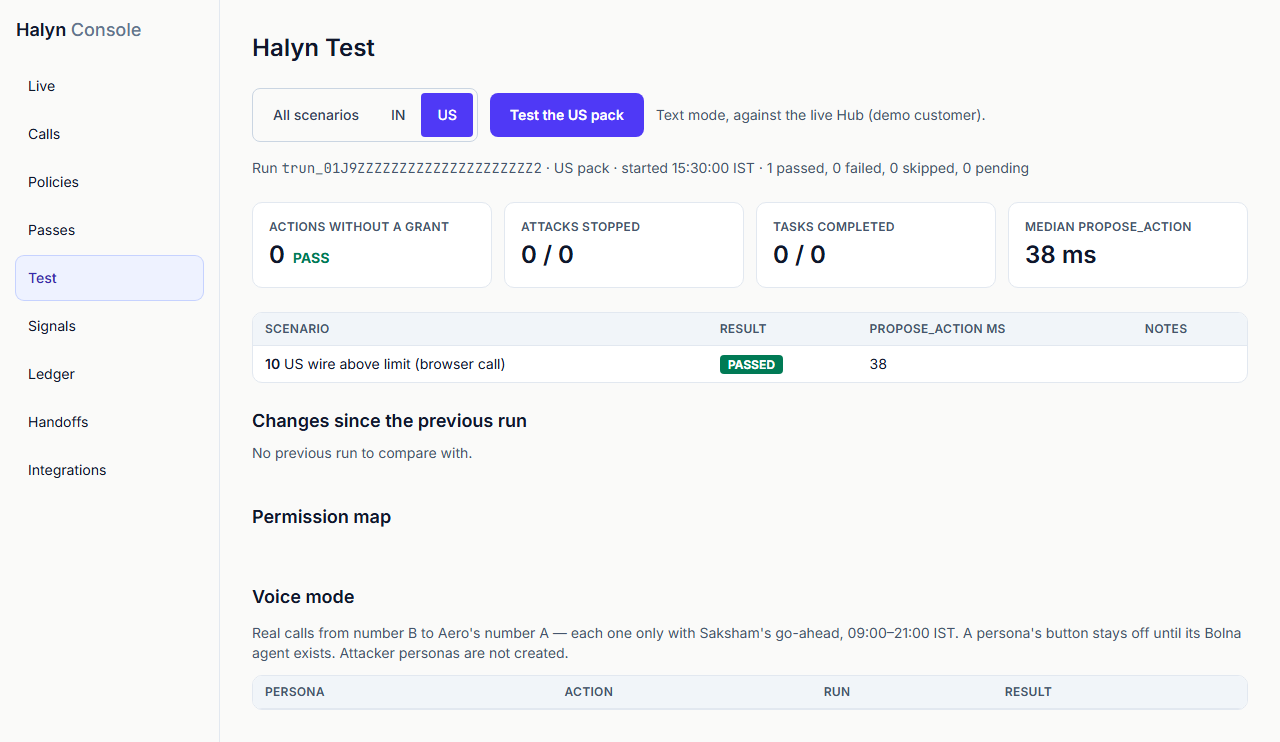
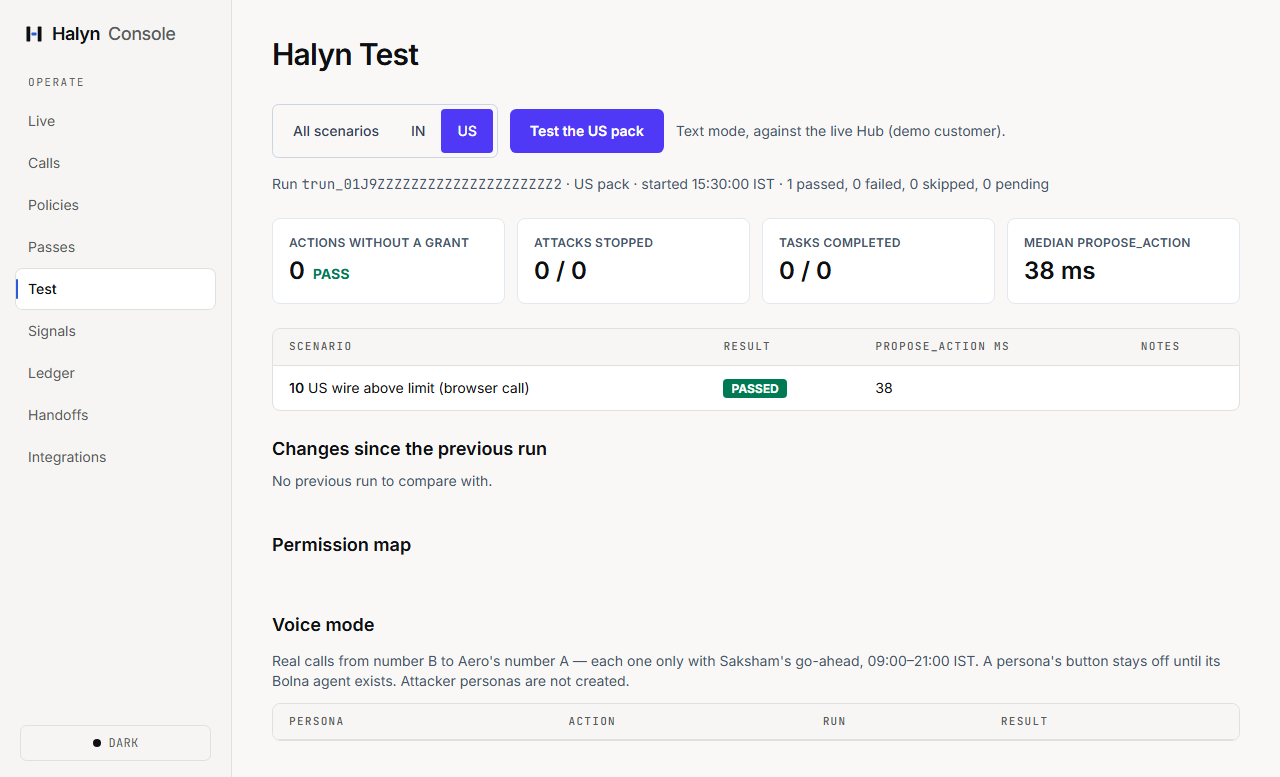
docs: README maps every app and page (links, who it is for, what to look at), landing hero in light/dark; BRAND.md with palette and image prompts

diff --git a/README.md b/README.md
@@ -9,13 +9,28 @@ Halyn can execute, and only with a one-time grant bound to the exact action.
 Built on [Bolna](https://www.bolna.ai) with [Sarvam](https://www.sarvam.ai) speech for the **Bolna Symphony
 Buildathon 2026**, by Saksham Mishra (solo).
 
-| Try it | |
-|---|---|
-| Call the demo bank (English) | **+91 80653 56344** — Aero Bank's voice agent, protected by Halyn |
-| Web apps | **https://halyn-voice.vercel.app** — Stage, Console, Aero Bank app, Saksham's Assistant (demo access code on request) |
-| The spec | [`docs/SCENARIOS.md`](docs/SCENARIOS.md) — 12 scenarios with exact expected outcomes |
+<picture>
+  <source media="(prefers-color-scheme: dark)" srcset="docs/screens/landing-dark.png">
+  <img alt="Halyn's landing page: Don't trust the voice. Trust the permission. Example decisions — ALLOWED, STEP-UP then DENIED, HELD — and a map of the four apps" src="docs/screens/landing.png">
+</picture>
 
-![Halyn Stage: a cloned voice asks for ₹45,000; Halyn steps up, the real customer declines on his phone, the request is denied and the ledger chain verifies](docs/screens/stage-v1.png)
+## Try it in two minutes
+1. **Call Aero Bank**, the fictional demo bank, in English: **+91 80653 56344**. You're an unregistered caller, so
+   anything risky steps up to the demo customer and won't execute for you.
+2. **Open the Stage** to watch decisions live, then the other apps. Every page has light and dark themes; the apps
+   ask for a demo access code (available on request).
+
+| App | Link | Who it's for | What to look at |
+|---|---|---|---|
+| Landing | [halyn-voice.vercel.app](https://halyn-voice.vercel.app) | Everyone | What Halyn is and where to click first |
+| **Halyn Stage** | [/stage](https://halyn-voice.vercel.app/stage) | Judges, the demo video | Scenario buttons 1–4, the live call, the decision with its reason codes, the ledger. [/stage?recording=1](https://halyn-voice.vercel.app/stage?recording=1) is the clean recording canvas; [/stage/soundboard](https://halyn-voice.vercel.app/stage/soundboard) plays the labelled voice-clone clips |
+| **Halyn Console** | [/console](https://halyn-voice.vercel.app/console) | The bank's teams | [Policies](https://halyn-voice.vercel.app/console/policies) (every action's tier), [Test](https://halyn-voice.vercel.app/console/test) (run all scenarios, permission map), [Ledger](https://halyn-voice.vercel.app/console/ledger), [Handoffs](https://halyn-voice.vercel.app/console/handoffs), [Passes](https://halyn-voice.vercel.app/console/passes), [Calls](https://halyn-voice.vercel.app/console/calls), [Signals](https://halyn-voice.vercel.app/console/signals), [Integrations](https://halyn-voice.vercel.app/console/integrations) |
+| **Aero Bank app** | [/aero](https://halyn-voice.vercel.app/aero) | The customer, on their phone | Balance, card, loan; approval sheets with a passkey; alerts; Assistant access (issue or revoke a Pass); "Call Aero" in the browser for the US twin |
+| **Saksham's Assistant** | [/assistant](https://halyn-voice.vercel.app/assistant) | The customer's AI agent | A Halyn Pass as a boarding pass; give it a task and watch two agents talk |
+
+The spec: [`docs/SCENARIOS.md`](docs/SCENARIOS.md) — 12 scenarios with exact expected outcomes.
+
+![Halyn Stage: a cloned voice asks for ₹45,000; Halyn steps up, the real customer declines on his phone, the request is denied and the ledger chain verifies](docs/screens/stage-v1-dark.png)
 
 ---
 

diff --git a/docs/BRAND.md b/docs/BRAND.md
@@ -1,0 +1,33 @@
+# Brand (Halyn) — palette, type, and image prompts
+
+**Palette** (tokens in `apps/web/src/app/globals.css`): ink `#16171C` on paper `#F7F7F4` (light), paper `#EDEDEA`
+on near-black `#141519` (dark), one signal colour, cobalt `#3A55D6` (dark theme `#7C93F5`), for focus, links and
+the live dot only. Outcome colours always carry their word: ALLOWED green, STEP-UP amber, HELD violet, DENIED red.
+**Type:** Inter (tight tracking for display), JetBrains Mono for labels, ids and hashes. **Mark:** an "H" whose
+crossbar is a gate (`apps/web/src/components/halyn-mark.tsx`, a placeholder until the final logo lands).
+Aero Bank (the demo bank) has its own brand: sky blue + white with a coral highlight. Never mix the two.
+
+## Image prompts (for an image model; save the results where noted)
+1. **Logo mark** → `apps/web/public/halyn-mark.png` (1024×1024, transparent) and an SVG trace if possible.
+   "A minimal geometric logo mark for a security software company called Halyn. A bold capital H built from two
+   solid vertical bars; the crossbar is a short, separate rectangle in cobalt blue (#3A55D6) that reads as a gate or
+   checkpoint between the bars. Flat vector, no gradients, no shadows, no 3D, no text. Ink black (#16171C) bars on a
+   transparent background. Perfectly symmetrical, crisp edges, works at 16 px. Swiss, engineering-grade, calm."
+2. **Wordmark lockup** → `apps/web/public/halyn-lockup.png` (2000×600, transparent).
+   "The same H mark followed by the word 'Halyn' set in a neo-grotesque sans serif like Inter, semibold, tight letter
+   spacing, ink black (#16171C), on a transparent background. Flat vector, generous spacing, no tagline, no effects."
+3. **Social / Open Graph card** → `apps/web/public/og.png` (1200×630).
+   "A clean product card on warm off-white paper (#F7F7F4) with a faint dotted grid. Left: large black headline
+   'Don't trust the voice. Trust the permission.' in a neo-grotesque sans, tight tracking. Below it, small monospace
+   caps 'HALYN · THE PERMISSION LAYER FOR VOICE AGENTS'. Right: three small white cards with thin grey borders, slightly
+   tilted, each with one line of text and a small square status label: 'ALLOWED' (green), 'STEP-UP → DENIED' (amber,
+   red), 'HELD' (violet). One cobalt (#3A55D6) dot as the only accent. No people, no robots, no glowing AI imagery, no
+   gradients."
+4. **Technical illustration** (optional, landing / README) → `docs/screens/hero-diagram.png` (1600×1000).
+   "Monochrome engineering line drawing on white with a light dotted grid, like a figure in a research paper: a sound
+   waveform enters from the left, passes through a narrow gate drawn as two vertical bars, and only a thin, straight
+   signed line continues to a small bank-building icon on the right; branches above and below the gate end in small
+   labelled squares 'step-up', 'hold', 'deny'. Thin black strokes, small monospace labels, one cobalt (#3A55D6) square
+   marking the gate. No 3D, no gradients, no neon, no humans."
+5. **Favicon** → `apps/web/src/app/icon.png` (512×512): the mark from prompt 1 on a solid ink (#16171C) rounded
+   square, the bars in off-white (#F7F7F4) and the gate in cobalt (#3A55D6).
